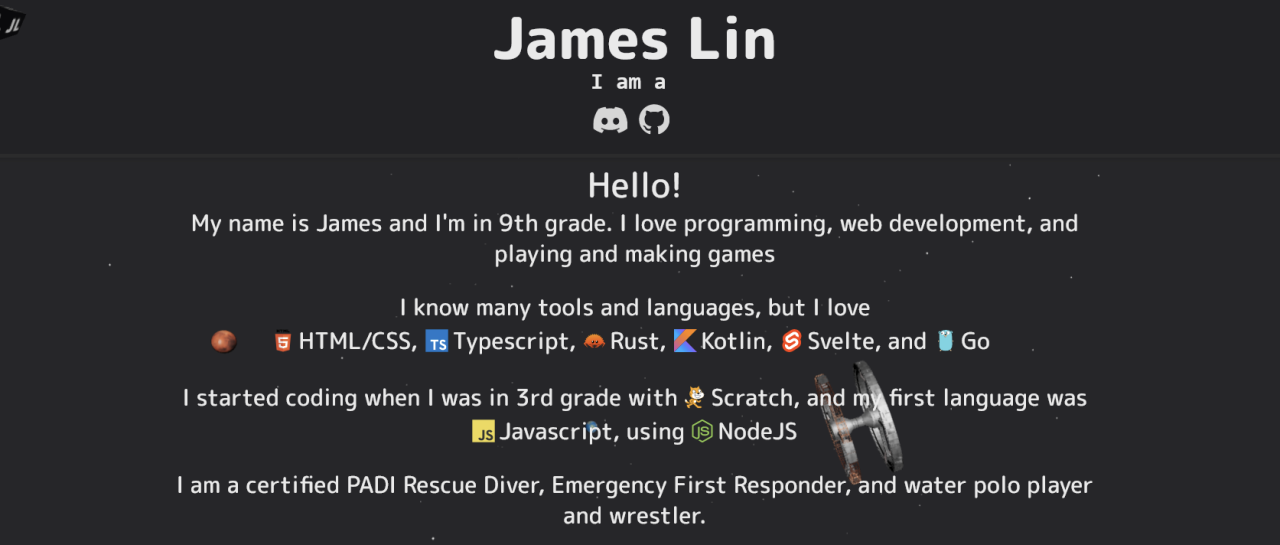
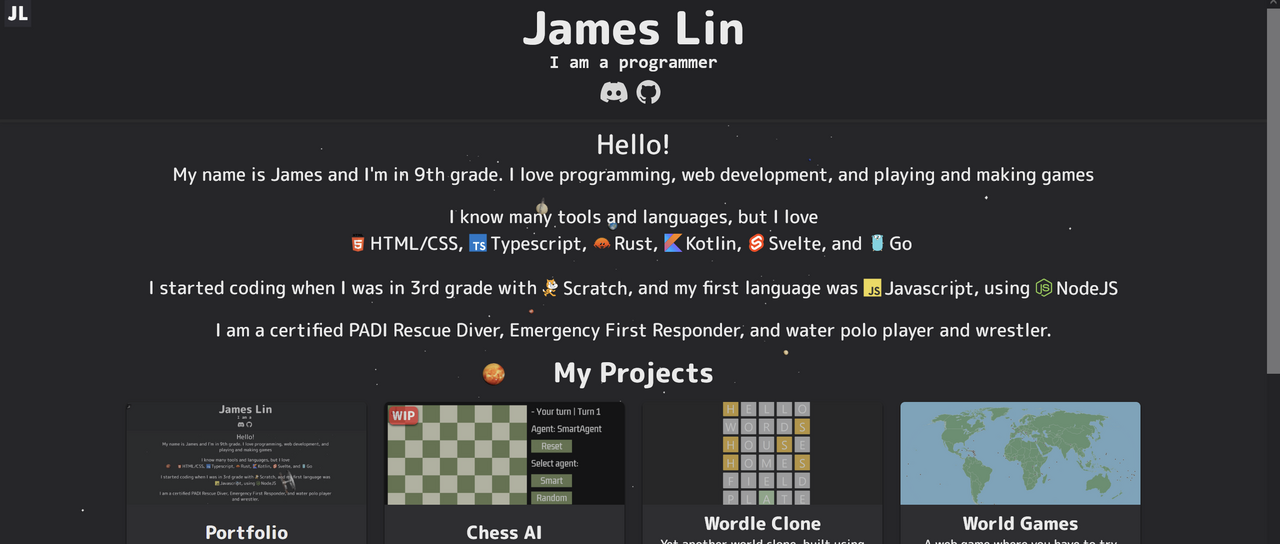
Updated projects

diff --git a/src/lib/projects.ts b/src/lib/projects.ts
@@ -12,7 +12,7 @@ export const projects: Project[] = [
 		id: "portfolio",
 		title: "Portfolio",
 		description:
-			"The website you are currently looking at. Written in SvelteKit and Tailwind, colors inspired by Bevy.",
+			"The website you are currently looking at. Written in SvelteKit and Tailwind and used to showcase my projects.",
 		image: "/images/thumbnails/portfolio.png",
 		github: "new-portfolio",
 		wip: false
@@ -21,13 +21,22 @@ export const projects: Project[] = [
 		id: "chess-ai",
 		title: "Chess AI",
 		description:
-			"A chess AI written in Python. Agent is a minimax search and graphics are done using PyGame.",
+			"A chess AI written in Rust. Uses a minimax algorithm with alpha-beta pruning and more to determine the best move.",
 		image: "/images/thumbnails/chess-ai.png",
-		github: "chess-veritas-ai",
+		github: "chess-ai",
+		wip: false
+	},
+	{
+		id: "ak",
+		title: "Automated Kingdom",
+		description:
+			"Multiplayer top-down game written in Rust with Macroquad graphics and online matchmaking. Supports native and WASM.",
+		image: "/images/thumbnails/wip.png",
+		github: "automated-kingdom",
 		wip: true
 	},
 	{
-		id: "worlde-clone",
+		id: "wordle-clone",
 		title: "Wordle Clone",
 		description:
 			"Yet another world clone, built using Svelte. Has 3-7 letter length words, custom guess count, word sharing, and a daily word!",
@@ -42,6 +51,24 @@ export const projects: Project[] = [
 			"A web game where you have to try and find countries that are given. Pan through the world using your mouse and double click to select!",
 		image: "/images/thumbnails/world-games.png",
 		github: "world-games",
+		wip: false
+	},
+	{
+		id: "buzzfeed",
+		title: "Buzzfeed Quiz",
+		description:
+			"A Buzzfeed cli quiz, written in Java, made for a school project. Has colored output, a scoring system and multiple quizzes!",
+		image: "/images/thumbnails/buzzfeed.png",
+		github: "buzzfeed",
+		wip: false
+	},
+	{
+		id: "wordle",
+		title: "Wordle Clone",
+		description:
+			"A wordle clone written in Go in the command line. One of my first projects, and my first time using Go.",
+		image: "/images/thumbnails/wordle.png",
+		github: "wordleclone",
 		wip: false
 	},
 	{

diff --git a/src/routes/projects/[project]/+page.svelte b/src/routes/projects/[project]/+page.svelte
@@ -35,9 +35,9 @@
 
 <Topbar forcePinned={true} />
 <div class="min-w-full flex flex-col items-center justify-center p-3 pb-5">
-	<h1 class="font-m-plus text-5xl font-bold text-[#ececec] mb-7">
+	<!-- <h1 class="font-m-plus text-5xl font-bold text-[#ececec] mb-7">
 		{data.project.title}
-	</h1>
+	</h1> -->
 	{#if readme}
 		<article
 			class="prose prose-lg md:prose-xl
@@ -49,6 +49,8 @@
 			prose-a:text-blue-300
 
 			prose-td:text-[#ececec]
+
+			prose-li:text-[#ececec]
 
 			prose-code:bg-[#1d1d21]
 			prose-code:rounded-md

diff --git a/README.md b/README.md
@@ -1,38 +1,15 @@
-# create-svelte
+# Portfolio
 
-Everything you need to build a Svelte project, powered by [`create-svelte`](https://github.com/sveltejs/kit/tree/master/packages/create-svelte).
+## Check it out [here](https://jamesalin.com)
 
-## Creating a project
+This is my portfolio website, showcasing a little bit about me, and some of my projects. Has a space theme in the background, with planets, stars, and a space station.
 
-If you're seeing this, you've probably already done this step. Congrats!
+Written in SvelteKit, Tailwind, and Three3s, hosted on an AWS EC2 instance.
 
-```bash
-# create a new project in the current directory
-npm create svelte@latest
+When you click on a project, it will take you to a page with more information about the project (the github README), and a link to the source code.
 
-# create a new project in my-app
-npm create svelte@latest my-app
-```
+## Inspirations/credits
 
-## Developing
-
-Once you've created a project and installed dependencies with `npm install` (or `pnpm install` or `yarn`), start a development server:
-
-```bash
-npm run dev
-
-# or start the server and open the app in a new browser tab
-npm run dev -- --open
-```
-
-## Building
-
-To create a production version of your app:
-
-```bash
-npm run build
-```
-
-You can preview the production build with `npm run preview`.
-
-> To deploy your app, you may need to install an [adapter](https://kit.svelte.dev/docs/adapters) for your target environment.
+- Colors are inspired by [bevy](https://bevyengine.org/)
+- Space station from [here](https://sketchfab.com/3d-models/space-station-v-2001-a-space-odyssey-cc2f60147e3b407d833685cb2349708a)
+- Planet textures from [here](https://www.solarsystemscope.com/textures/)
